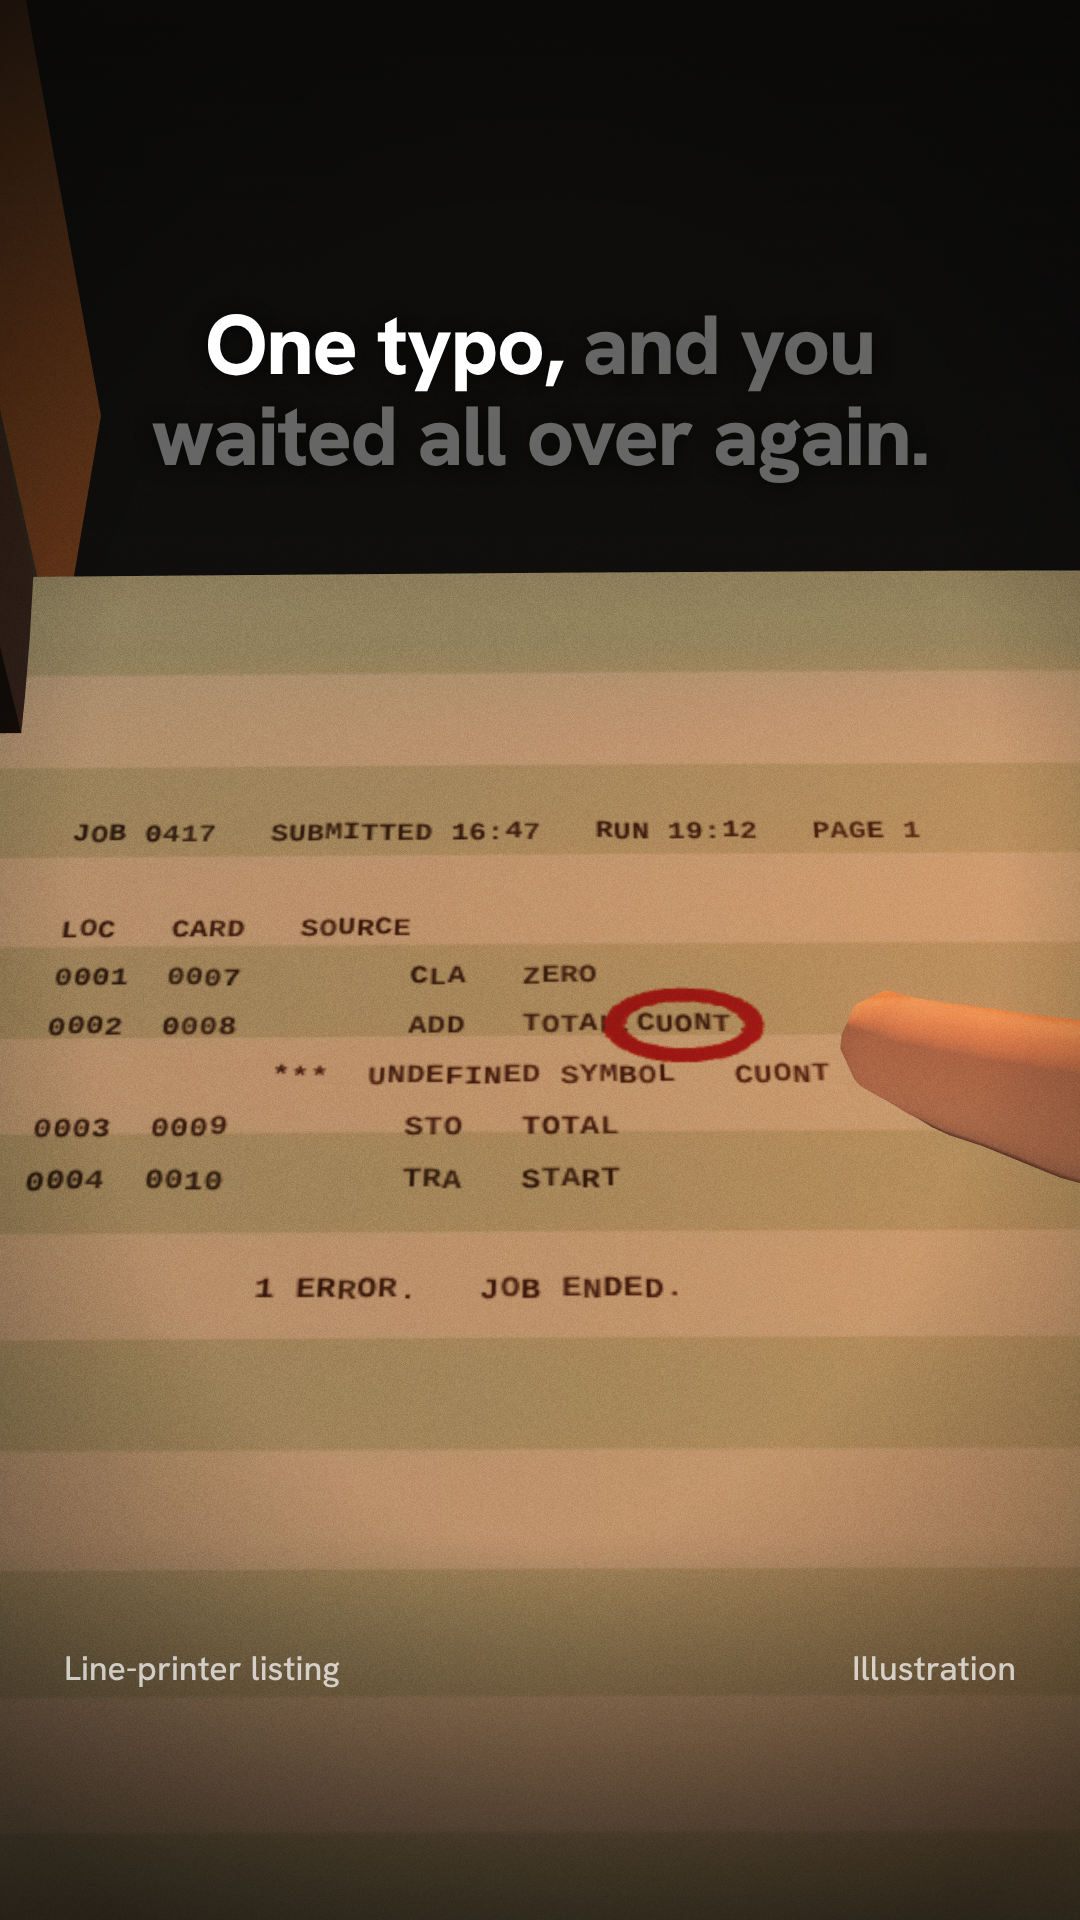
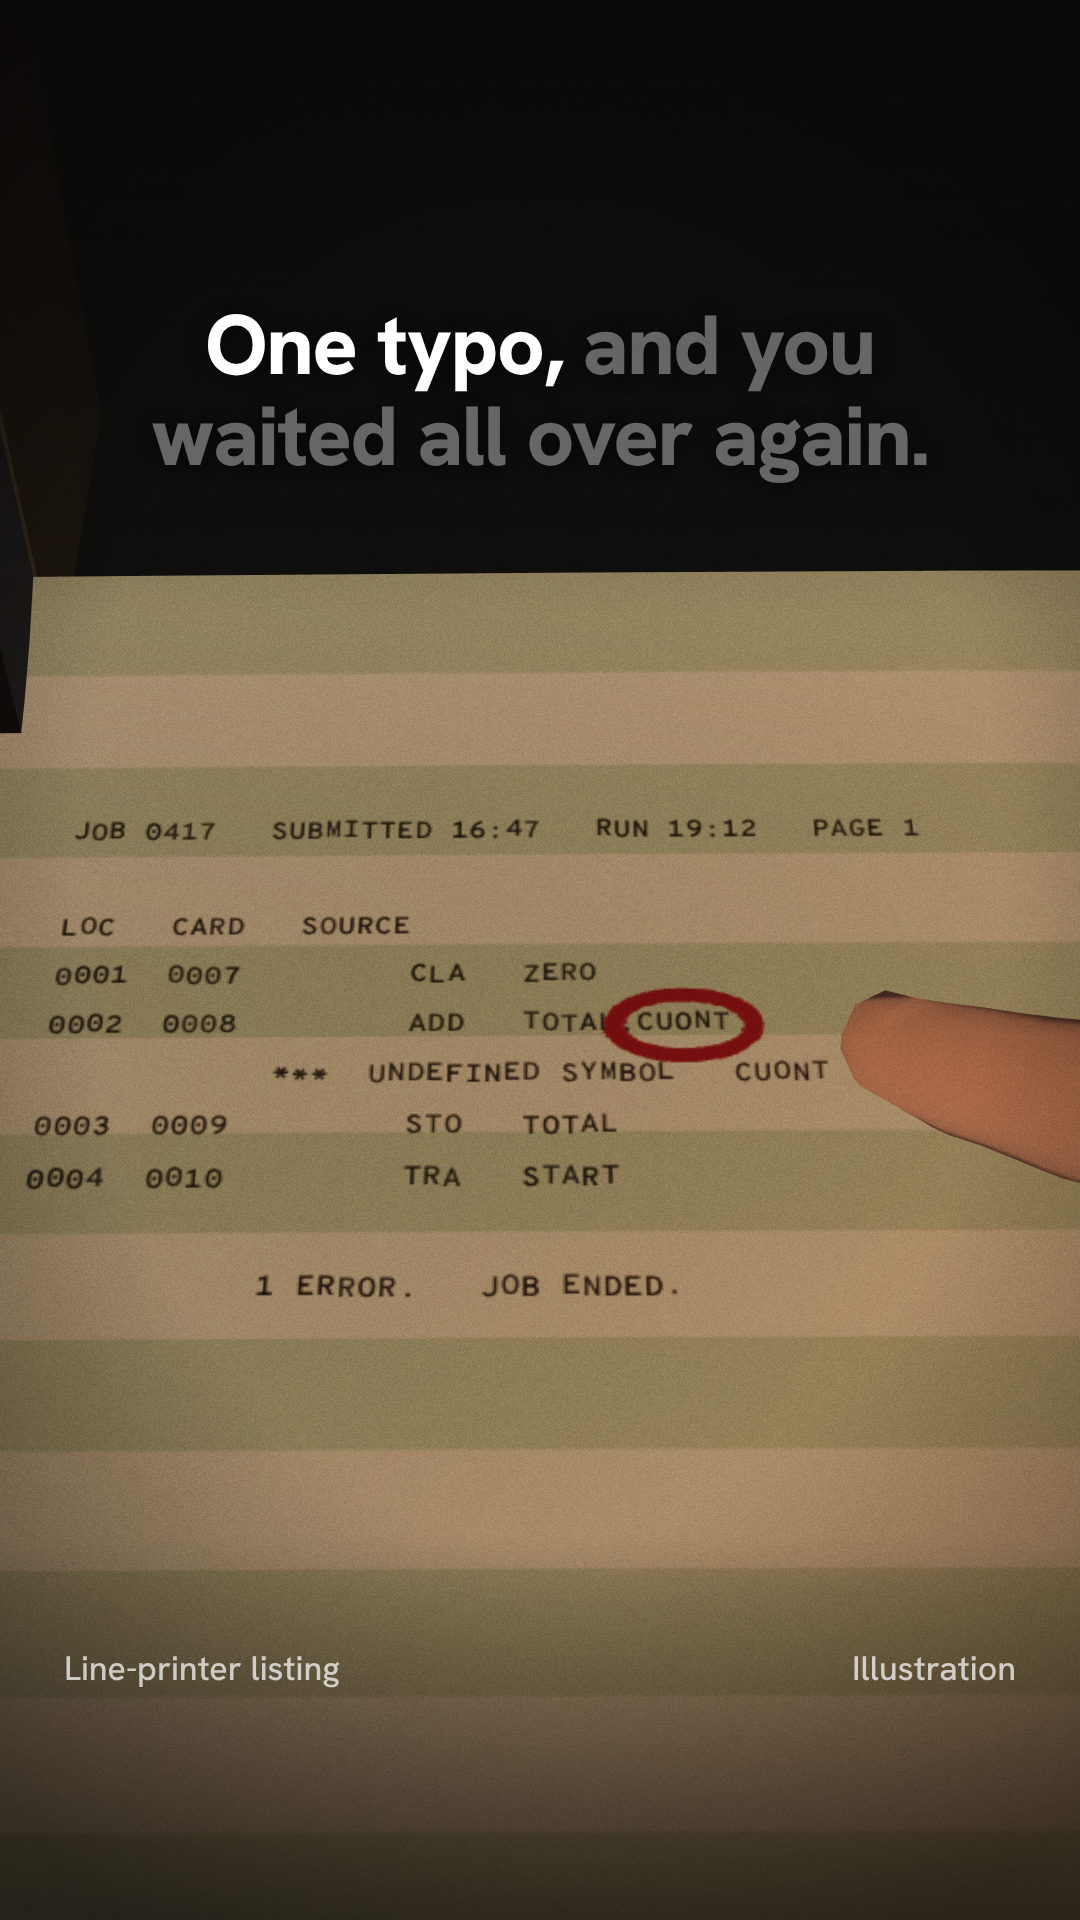
code-history-01: frame 6 notes (hatch glow cropped out, line-printer gothic mono); bundle VT323
Claude-Session: https://claude.ai/code/session_01WProZWpsJFDSXZymuGJDxf

diff --git a/projects/code-history-01/film/src/batch.tsx b/projects/code-history-01/film/src/batch.tsx
@@ -106,16 +106,17 @@ export const BatchSet: React.FC<{mode?: 'handin' | 'printout'; clock?: [number, 
       const m = new THREE.Mesh(new THREE.BoxGeometry(w, h, d), cardboard); m.position.set(x, y, z); box.add(m);
     });
     const cards = new THREE.Mesh(new THREE.BoxGeometry(CARD.w, CARD.h, bl * 0.55), edgeMat); cards.position.set(0, CARD.h / 2 + 0.004, -bl * 0.2); box.add(cards);
-    return {g, deck};
+    return {g, deck, inside};
   }, [time[0], time[1]]);
   built.deck.visible = mode === 'handin';
+  built.inside.visible = mode === 'handin'; // the close printout shot crops the hatch glow out (Matthew, frame 6)
 
   return (
     <>
       <primitive object={built.g} />
       {mode === 'printout' && <Printout x={-0.02} />}
       <pointLight position={[DECK.x, deckTop() + 0.04, DECK.z]} color={C.amber} intensity={0.03} distance={0.4} decay={2} />
-      <pointLight position={[0, 0.07, -0.15]} color={'#ff9a40'} intensity={0.4} distance={0.8} decay={2} />
+      {mode === 'handin' && <pointLight position={[0, 0.07, -0.15]} color={'#ff9a40'} intensity={0.4} distance={0.8} decay={2} />}
       <spotLight position={[-0.6, 1.2, 1.0]} angle={0.45} penumbra={1} intensity={5} color={'#ffe2c0'} distance={4} decay={2} />
       <spotLight position={[0.9, 0.9, 0.9]} angle={0.5} penumbra={1} intensity={3} color={'#ffcf9a'} distance={4} decay={2} />
       <hemisphereLight args={['#4a3c30', '#0a0908', 0.4]} />

diff --git a/projects/code-history-01/film/src/kit/fonts.ts b/projects/code-history-01/film/src/kit/fonts.ts
@@ -3,6 +3,8 @@ import {continueRender, delayRender, staticFile} from 'remotion';
 const FACES: [string, string, string][] = [
   ['Hanken Grotesk', '500', 'HankenGrotesk-500.woff2'], ['Hanken Grotesk', '700', 'HankenGrotesk-700.woff2'],
   ['Hanken Grotesk', '800', 'HankenGrotesk-800.woff2'],
+  ['Overpass Mono', '600', 'OverpassMono-600.woff2'], // line-printer listing (gothic monospace, OFL)
+  ['VT323', '400', 'VT323-400.woff2'],                // terminal screen text (OFL)
 ];
 const handle = delayRender('fonts');
 Promise.all(FACES.map(([fam, w, file]) => {
@@ -11,3 +13,5 @@ Promise.all(FACES.map(([fam, w, file]) => {
   return f.load();
 })).then(() => continueRender(handle));
 export const SANS = "'Hanken Grotesk', sans-serif";
+export const PRINTER = "'Overpass Mono', 'Courier New', monospace";
+export const TERMINAL = "'VT323', 'Courier New', monospace";

diff --git a/projects/code-history-01/film/src/printout.tsx b/projects/code-history-01/film/src/printout.tsx
@@ -33,7 +33,7 @@ function paperTexture() {
   for (let i = 0; i < 12000; i++) { ctx.fillStyle = `rgba(90,80,60,${random(`pg${i}`) * 0.05})`; ctx.fillRect(random(`px${i}`) * W, random(`py${i}`) * H, 2, 1); }
   // the listing: line-printer type, slightly uneven ink
   const lh = (0.0254 / 6) * px; // 6 lines per inch
-  ctx.font = `600 ${lh * 0.82}px "Courier New", Courier, monospace`; ctx.textBaseline = 'middle';
+  ctx.font = `600 ${lh * 0.8}px "Overpass Mono", "Courier New", monospace`; ctx.textBaseline = 'middle';
   const x0 = margin + 0.02 * px, y0 = 0.035 * px;
   LISTING.forEach((line, i) => {
     [...line].forEach((ch, k) => {
